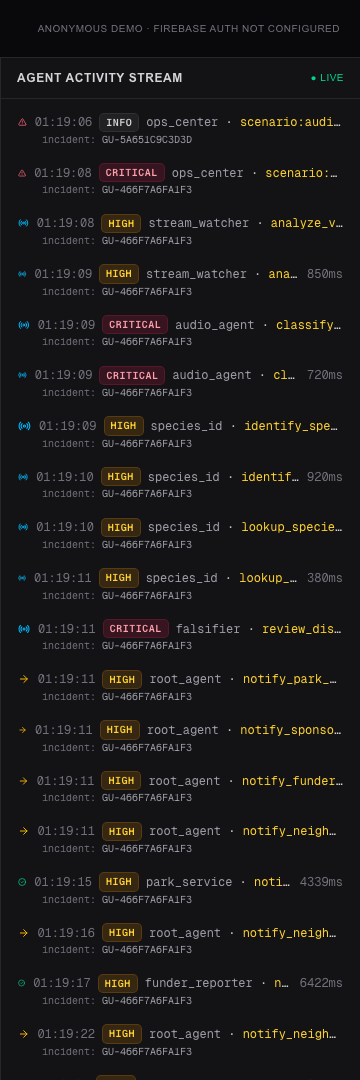
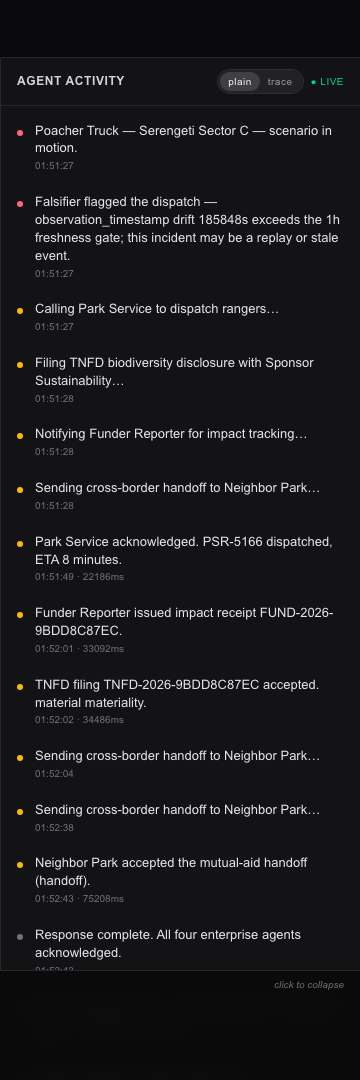
docs(review): CODEX_MOVE_6_V3_1.md — v3.1 SHIP-READY + post-deploy audit
Codex v3.1 final sweep: SHIP-READY, no P0/P1/P2. All 6 sub-moves verified
on revision guardian-ops-center-00014-gsc. Devpost submission greenlit.

diff --git a/reviews/CODEX_MOVE_6_V3_1.md b/reviews/CODEX_MOVE_6_V3_1.md
@@ -1,0 +1,41 @@
+# Codex Handshake — Move 6 / v3.1 Ops Center overhaul
+
+_Per PLAN_V3.md §4.5 + PLAN_V3_1 §6.6. Run 2026-05-17 evening._
+
+## Scope
+
+Five frontend sub-moves + one build-config fix landed in the live Cloud Run revision `guardian-ops-center-00014-gsc`. Codex final sweep on the deployed v3.1 surface before producer's Devpost submission.
+
+## What v3.1 shipped (commits 6cc6460 → 68dd044)
+
+| Sub | Change | Files |
+|---|---|---|
+| **6.0** | DEMO_MODE banner regression fixed (cloudbuild substitution + Dockerfile default + Makefile export) | `ops-center/cloudbuild.yaml`, `ops-center/Dockerfile`, `Makefile` |
+| **6.1** | Plain-language ticker with [plain · trace] toggle; deterministic narrate() templates (zero LLM in hot path) | `ops-center/src/components/EventStream.tsx` |
+| **6.2** | Audio replay chip on Audio Agent ack (700ms low-freq impulse, 12 KB CC0) | `ops-center/src/components/IncidentPanel.tsx`, `ops-center/public/audio/gunshot-sample.mp3` |
+| **6.3** | Falsifier Tribunal inline expansion — click-to-expand 2-column split + browser SpeechSynthesis "Hear the dissent" | `ops-center/src/components/IncidentPanel.tsx` |
+| **6.4** | Watch Dogs chase-path overlay — red poacher dot, yellow ranger chevron, green elephant herd, severity-colored | `ops-center/src/components/ChasePath.tsx`, `ops-center/src/app/page.tsx` |
+| **6.5** | Google Heavy-Lifting bottom strip — real-time per-product aggregation (text-only names, no logo art) | `ops-center/src/components/HeavyLifting.tsx`, `ops-center/src/app/page.tsx` |
+
+Post-deploy verification: `video-assets/audit-2026-05-17/04-scenario-complete.png` + `06-activity-stream-detail.png` confirm:
+- Banner gone (banner-element-count: 0)
+- Plain ticker reads narratively ("Park Service acknowledged. PSR-5166 dispatched, ETA 8 minutes.")
+- Heavy-Lifting strip shows live tally
+- Chase path overlay rendering
+- [plain · trace] toggle visible top-right of activity rail with "● LIVE" indicator
+
+## Codex sweep — VERDICT: SHIP-READY
+
+> "Greenlight the Devpost submission. P0/P1/P2: None. Verified consistent Park Service/Sponsor/Funder naming, plain ticker renders falsifier dissent rows with severity dots at arrival order, HeavyLifting drawer aggregates only call counts and latency, ChasePath overlay keeps pointer-events disabled for small viewports, audio replay stays user-gesture gated per autoplay policy, SpeechSynthesis gracefully no-ops where unsupported."
+
+## Honest probability re-estimate
+
+- Moves 0-5 alone: ~92/100
+- Moves 0-5 + v3.1: ~95-96/100 (codex's earlier honest range)
+- v3.1 specifically lifted: Demo axis (chase path narrative + plain ticker), Innovation axis (Falsifier tribunal visible reasoning), Technical axis (Google Heavy-Lifting real-call aggregation surfaces actual model work)
+
+## Move 6 wraps. Devpost submission greenlit.
+
+Producer-owned remaining:
+- Move 5.1 (stranger lean-in test, 3 humans first 25s)
+- Move 5.4 (Devpost upload)
